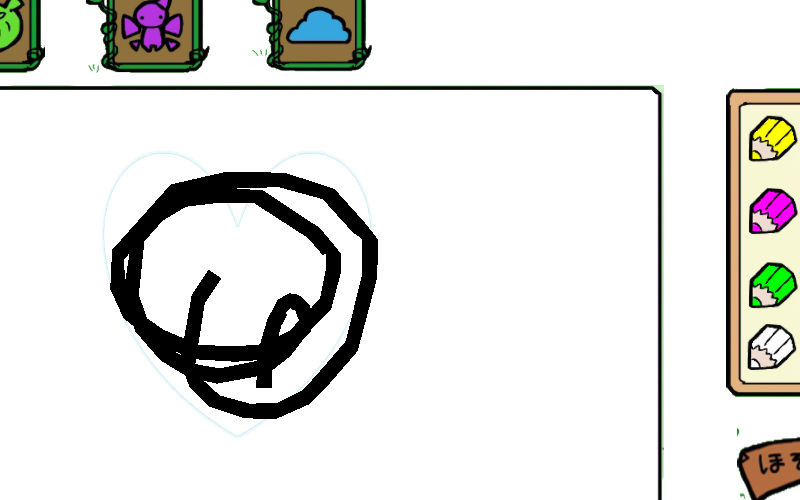
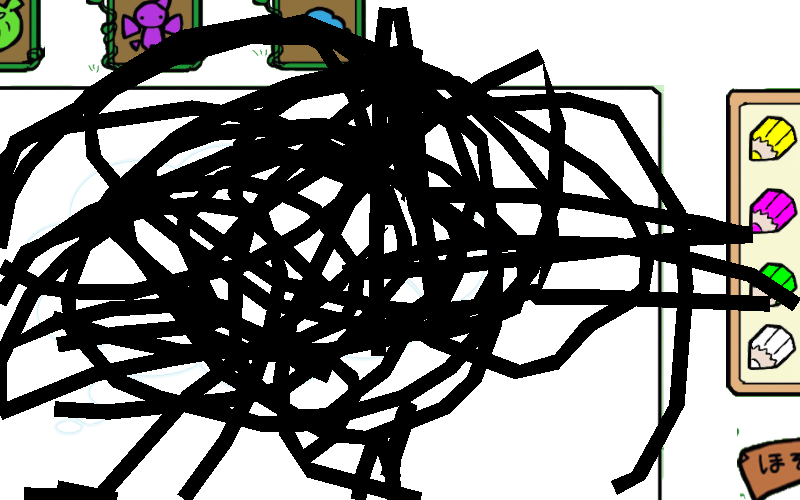
解像度低くてもお絵かき(線を引く)をキャンパス範囲内で描画するように修正

diff --git a/PicGather/Assets/UI/Campus/CampusCaptureController.cs b/PicGather/Assets/UI/Campus/CampusCaptureController.cs
@@ -23,7 +23,7 @@ public class CampusCaptureController : MonoBehaviour
     [SerializeField]
     GameObject CampusFrame = null;
 
-    Rect CaptureRect = new Rect(25, -50, 325, 200);
+    Rect CaptureRect = new Rect(0, 0, 0, 0);
     
     Button ClickButton = null;
     CharacterManager CharaManager = null;
@@ -41,6 +41,15 @@ public class CampusCaptureController : MonoBehaviour
     void SetCampusRect()
     {
         var FrameRect = CampusFrame.GetComponent<RectTransform>().rect;
+
+#if UNITY_METRO_8_1 && !UNITY_EDITOR
+        var RightShift = 100;
+        var DownShift = 50;
+        FrameRect.x += FrameRect.width / 2 + RightShift;
+        FrameRect.y += FrameRect.height / 2 + DownShift;
+        FrameRect.width -= RightShift;
+        FrameRect.height -= DownShift;
+#else
         var RightShift = 100;
         var DownShift = 50;
         FrameRect.x += FrameRect.width / 2 + RightShift;
@@ -48,6 +57,7 @@ public class CampusCaptureController : MonoBehaviour
         FrameRect.width -= RightShift;
         FrameRect.height -= DownShift;
 
+#endif
         CaptureRect = FrameRect;
     }
 

diff --git a/PicGather/Assets/PaintManager/PaintManager.cs b/PicGather/Assets/PaintManager/PaintManager.cs
@@ -33,7 +33,7 @@ public class PaintManager : MonoBehaviour {
     public float lineWidth { get; private set; }
     public readonly Vector2 valueAdjustment = new Vector2(3, 8);
     public readonly Vector2 campusOffSet = new Vector2(100, 50);
-
+    
 
     void Start()
     {
@@ -41,6 +41,12 @@ public class PaintManager : MonoBehaviour {
         lineCount = 1;
         lineWidth = 0.03f;
         campusSize = campus.GetComponent<RectTransform>().rect.size;
+
+#if UNITY_METRO_8_1 && !UNITY_EDITOR
+#else
+        campusSize.x -= 200;
+        campusSize.y -= 100;
+#endif
     }
 
     void Update()

diff --git a/PicGather/Assets/Rain/RainCreator.cs b/PicGather/Assets/Rain/RainCreator.cs
@@ -17,8 +17,6 @@ public class RainCreator : MonoBehaviour {
 
     GameObject Manager = null;
     
-    ModeManager Mode = null;
-
     int Count = 0;
     bool IsCreate = false;
 
@@ -26,7 +24,6 @@ public class RainCreator : MonoBehaviour {
 
 	// Use this for initialization
 	void Start () {
-        Mode = FindObjectOfType(typeof(ModeManager)) as ModeManager;
 	}
 	
 	// Update is called once per frame

diff --git a/PicGather/Assets/FerverGauge/FeverSystem/WaterSurfaceMover.cs b/PicGather/Assets/FerverGauge/FeverSystem/WaterSurfaceMover.cs
@@ -12,7 +12,7 @@ public class WaterSurfaceMover : MonoBehaviour {
     [SerializeField]
     private const float MaxHeight = 8;
 
-    private Vector3 DefaultPosition = new Vector3(0.0f, 0.0f, 0.0f);
+    private Vector3 DefaultPosition = Vector3.zero;
 
 	// Use this for initialization
 	void Start () {
